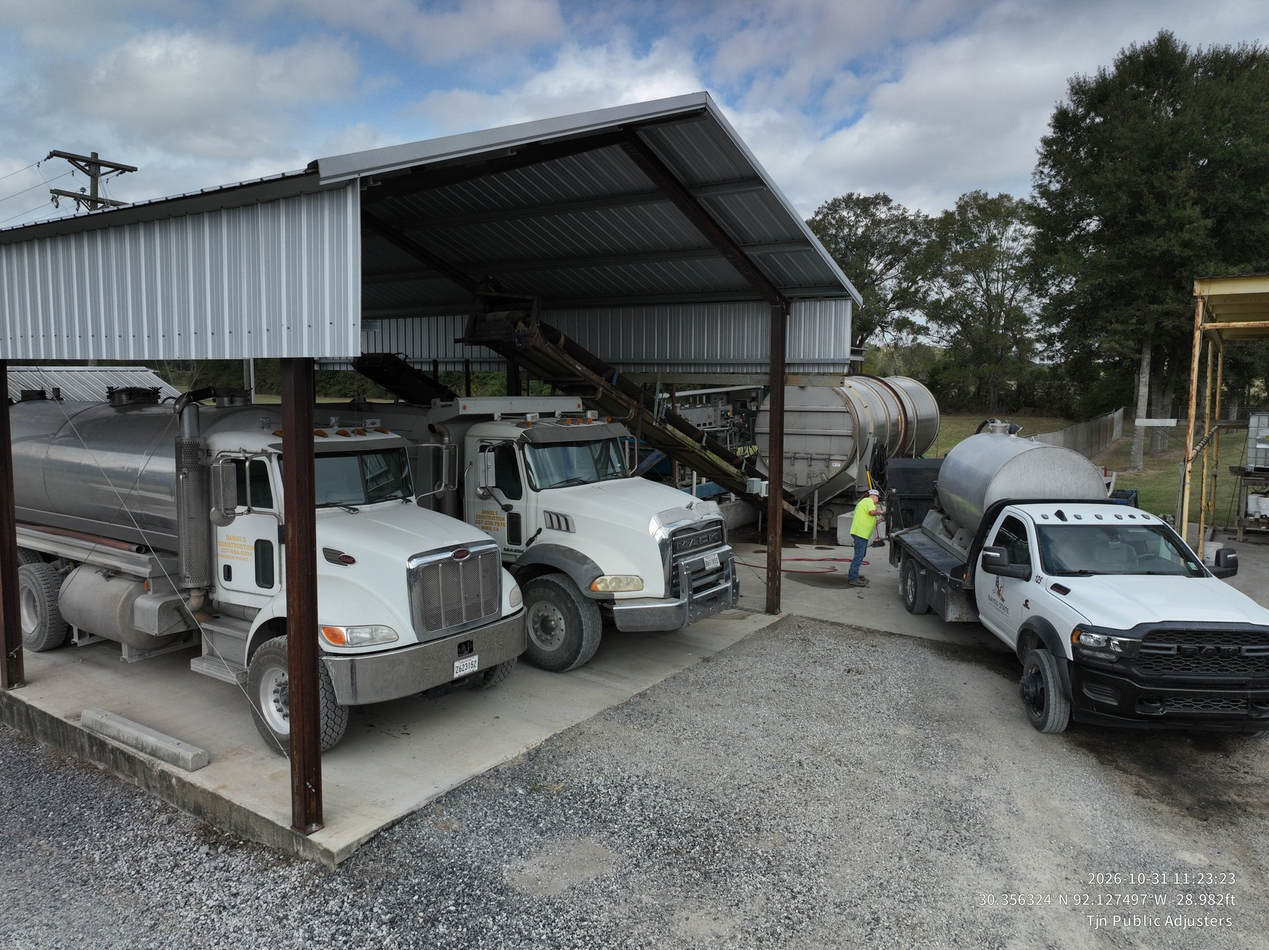
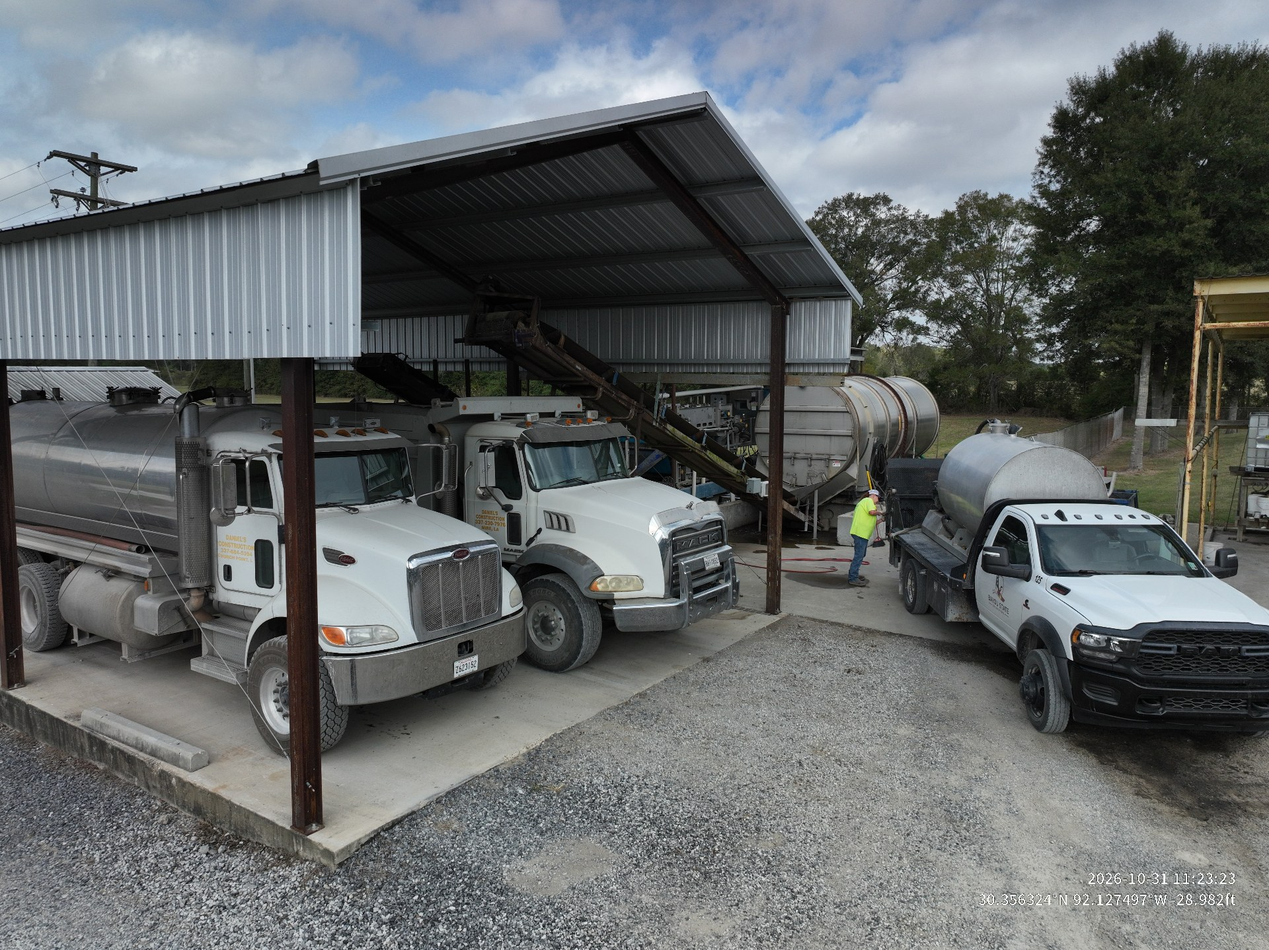
Remove Tjn Public Adjusters watermark from DJI drone photos

diff --git a/dist/index.html b/dist/index.html
@@ -238,7 +238,7 @@
               <img src="./assets/hq-main-building-flag-B7-ftMJq.jpg" alt="Main HQ Building &amp; Flag" loading="lazy" />
             </button>
             <button class="hero-thumb-btn" data-index="1" aria-label="View DJI Drone Aerial of 11751 LA-365 Complex">
-              <img src="./assets/aerial-facility-overview-Dou1URDj.jpg" alt="DJI Drone Aerial of Facility" loading="lazy" />
+              <img src="./assets/aerial-facility-overview-hVzjRb0k.jpg" alt="DJI Drone Aerial of Facility" loading="lazy" />
             </button>
             <button class="hero-thumb-btn" data-index="2" aria-label="View Peterbilt Vacuum Tanker &amp; Mack Dump Truck">
               <img src="./assets/peterbilt-and-mack-front-BUhYzXGf.jpg" alt="Peterbilt &amp; Mack Fleet" loading="lazy" />
@@ -421,7 +421,7 @@
           <!-- Photo 1: DJI Drone Aerial Overview -->
           <article class="fleet-card span-6" data-lightbox-index="1" data-fleet-category="aerial treatment">
             <div class="fleet-img-wrap">
-              <img src="./assets/aerial-facility-overview-Dou1URDj.jpg" alt="DJI Drone Aerial Overview of Wingate Treatment Site Septage Dumpsite at Duck Rd, Sunset LA (30.355829, -92.127946)" loading="lazy" />
+              <img src="./assets/aerial-facility-overview-hVzjRb0k.jpg" alt="DJI Drone Aerial Overview of Wingate Treatment Site Septage Dumpsite at Duck Rd, Sunset LA (30.355829, -92.127946)" loading="lazy" />
               <span class="fleet-unit-tag">DUMPSITE GPS // 30.355829, -92.127946</span>
               <span class="fleet-zoom-hint">🔍 Click to Enlarge</span>
             </div>
@@ -528,7 +528,7 @@
           <!-- Photo 6: Aerial Treatment Lagoons -->
           <article class="fleet-card span-4" data-lightbox-index="6" data-fleet-category="aerial treatment">
             <div class="fleet-img-wrap">
-              <img src="./assets/aerial-treatment-lagoons-B_W-fbXg.jpg" alt="DJI Drone View of Wingate Treatment Site Dewatering Building and Multi-Stage Lagoons" loading="lazy" />
+              <img src="./assets/aerial-treatment-lagoons-K3Bi-on9.jpg" alt="DJI Drone View of Wingate Treatment Site Dewatering Building and Multi-Stage Lagoons" loading="lazy" />
               <span class="fleet-unit-tag">LDEQ #LA0124893 // LAGOONS</span>
               <span class="fleet-zoom-hint">🔍 Enlarge</span>
             </div>
@@ -839,7 +839,7 @@
             </div>
 
             <div class="fleet-img-wrap" style="border-radius: var(--radius-md); border: 1px solid var(--border-gold); cursor: pointer;" data-lightbox-index="1">
-              <img src="./assets/aerial-facility-overview-Dou1URDj.jpg" alt="Aerial Drone Photo of Wingate Treatment Site Septage Dumpsite at 30.355829, -92.127946" loading="lazy" />
+              <img src="./assets/aerial-facility-overview-hVzjRb0k.jpg" alt="Aerial Drone Photo of Wingate Treatment Site Septage Dumpsite at 30.355829, -92.127946" loading="lazy" />
               <span class="fleet-unit-tag">DUCK RD, SUNSET LA // 30.355829, -92.127946</span>
               <span class="fleet-zoom-hint">🔍 Click for Full Aerial</span>
             </div>

diff --git a/DOMAIN_SETUP_DANIELS_CONSTRUCTION_NET.md b/DOMAIN_SETUP_DANIELS_CONSTRUCTION_NET.md
@@ -1,46 +1,35 @@
-# Connecting `daniels-construction.net` (Squarespace Domains) to Your Live Website
+# `daniels-construction.net` — Live Domain & DNS Configuration Summary
 
-## Current Status: Hosting is LIVE & Waiting for Your DNS Switch
-Your website is **already deployed, built, and live** on GitHub Pages under your account (`https://github.com/garyn09/daniels-construction-net`) and configured to accept traffic for **`daniels-construction.net`**.
+## Status: LIVE (`HTTP 200 OK` on `daniels-construction.net` & `www.daniels-construction.net`)
 
-Right now, `daniels-construction.net` is registered on one of your **Squarespace** profiles, and its DNS is still pointing to a deleted Squarespace site (`Squarespace - No Such Website / SITE DELETED`) with Cloudflare nameservers (`zac.ns.cloudflare.com` and `yolanda.ns.cloudflare.com`).
-
-Follow the steps below inside your **Squarespace Domains** dashboard to complete the connection in 60 seconds:
+Your custom domain **`daniels-construction.net`** (managed in your `gary@claims-solutions.com` Squarespace profile) is now **live and serving** your new **Daniel's Construction (`Daniels Construction of CP, LLC`)** website from GitHub Pages (`https://github.com/garyn09/daniels-construction-net`).
 
 ---
 
-## Step-by-Step in Your Squarespace Profile
+## 1. Completed Squarespace DNS & Nameserver Configuration
 
-### Step 1: Open Your Domain in Squarespace
-1. Log into your Squarespace account at [account.squarespace.com/domains](https://account.squarespace.com/domains) (check whichever of your 2 profiles holds **`daniels-construction.net`**).
-2. Click **`daniels-construction.net`**.
+1. **Authoritative Nameservers Switched to Squarespace (`DNS` → `Domain Nameservers`):**
+   - Replaced the inactive custom Cloudflare nameservers (`yolanda.ns.cloudflare.com`, `zac.ns.cloudflare.com`) with **Squarespace Default Nameservers**:
+     - `nsd1.squarespacedns.com`
+     - `nsd2.squarespacedns.com`
+     - `nsd3.squarespacedns.com`
+     - `nsd4.squarespacedns.com`
+2. **Removed Old Squarespace Parking Preset (`DNS` → `DNS Settings`):**
+   - Deleted the old `Squarespace Defaults` preset (`198.185.159.144`, `198.185.159.145`, `198.49.23.144`, `198.49.23.145`, and `www` → `ext-sq.squarespace.com`).
+3. **Active GitHub Pages Custom DNS Records (`DNS` → `DNS Settings` → `Custom records`):**
 
-### Step 2: Check "Domain Nameservers" (Crucial!)
-1. In the left sidebar, click **DNS** → **Domain Nameservers**.
-2. Currently, live DNS shows custom Cloudflare nameservers (`zac.ns.cloudflare.com` and `yolanda.ns.cloudflare.com`).
-   - **If you want to manage DNS right inside Squarespace:** Click **Use Squarespace nameservers** and click **Save**.
-   - *(Alternatively, if you prefer to keep Cloudflare nameservers active, simply add the records in Step 4 inside your Cloudflare dashboard instead).*
-
-### Step 3: Remove the Old "Squarespace Defaults" Preset
-1. In the left sidebar under **DNS**, click **DNS Settings**.
-2. At the top under **Squarespace Defaults** (or **Website Defaults**), click the **Trash Can / Delete** button to remove the old deleted Squarespace website preset. *(This is what causes the "Squarespace - No Such Website / SITE DELETED" screen).*
-
-### Step 4: Add These 5 Custom Records under "Custom Records"
-Scroll down to **Custom Records** → click **Add Record** and enter these exact 5 records:
-
-| Host | Type | Priority | Data / Value |
+| Host | Type | TTL | Data / Value |
 | :--- | :--- | :--- | :--- |
-| `@` | `A` | *(leave blank)* | `185.199.108.153` |
-| `@` | `A` | *(leave blank)* | `185.199.109.153` |
-| `@` | `A` | *(leave blank)* | `185.199.110.153` |
-| `@` | `A` | *(leave blank)* | `185.199.111.153` |
-| `www` | `CNAME` | *(leave blank)* | `garyn09.github.io` |
-
-Click **Save**.
+| `@` | `A` | `4 hrs` | `185.199.108.153` |
+| `@` | `A` | `4 hrs` | `185.199.109.153` |
+| `@` | `A` | `4 hrs` | `185.199.110.153` |
+| `@` | `A` | `4 hrs` | `185.199.111.153` |
+| `www` | `CNAME` | `4 hrs` | `garyn09.github.io` |
 
 ---
 
-## Step 5: Automatic HTTPS Certificate (After DNS Propagates)
-Within 5–30 minutes after saving those DNS records in Squarespace:
-1. `http://daniels-construction.net` and `http://www.daniels-construction.net` will immediately load your new **Daniel's Construction** website.
-2. GitHub Pages (`https://github.com/garyn09/daniels-construction-net/settings/pages`) will automatically issue your free Let's Encrypt SSL certificate so you can check **Enforce HTTPS**.
+## 2. Automatic Let's Encrypt HTTPS Certificate
+
+- **HTTP (`http://daniels-construction.net` and `http://www.daniels-construction.net`)** is **live immediately** (`HTTP 200 OK`).
+- **HTTPS (`https://daniels-construction.net`)**: Because the domain's authoritative nameservers were just switched from Cloudflare to Squarespace (`nsd1–nsd4.squarespacedns.com`), GitHub's Let's Encrypt certificate authority automatically provisions the free TLS certificate once the `.net` TLD nameserver delegation cache (TTL) finishes updating (typically 10–30 minutes).
+- Once provisioned, you can check **Enforce HTTPS** at [github.com/garyn09/daniels-construction-net/settings/pages](https://github.com/garyn09/daniels-construction-net/settings/pages).
